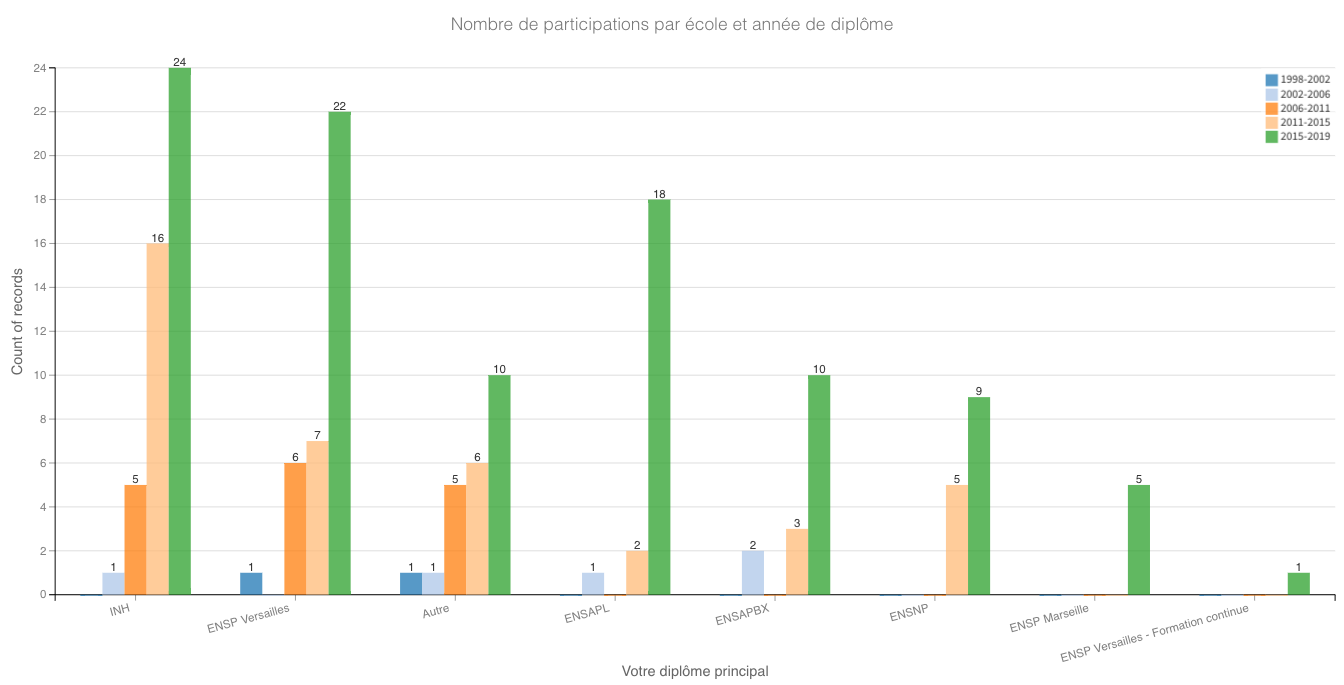
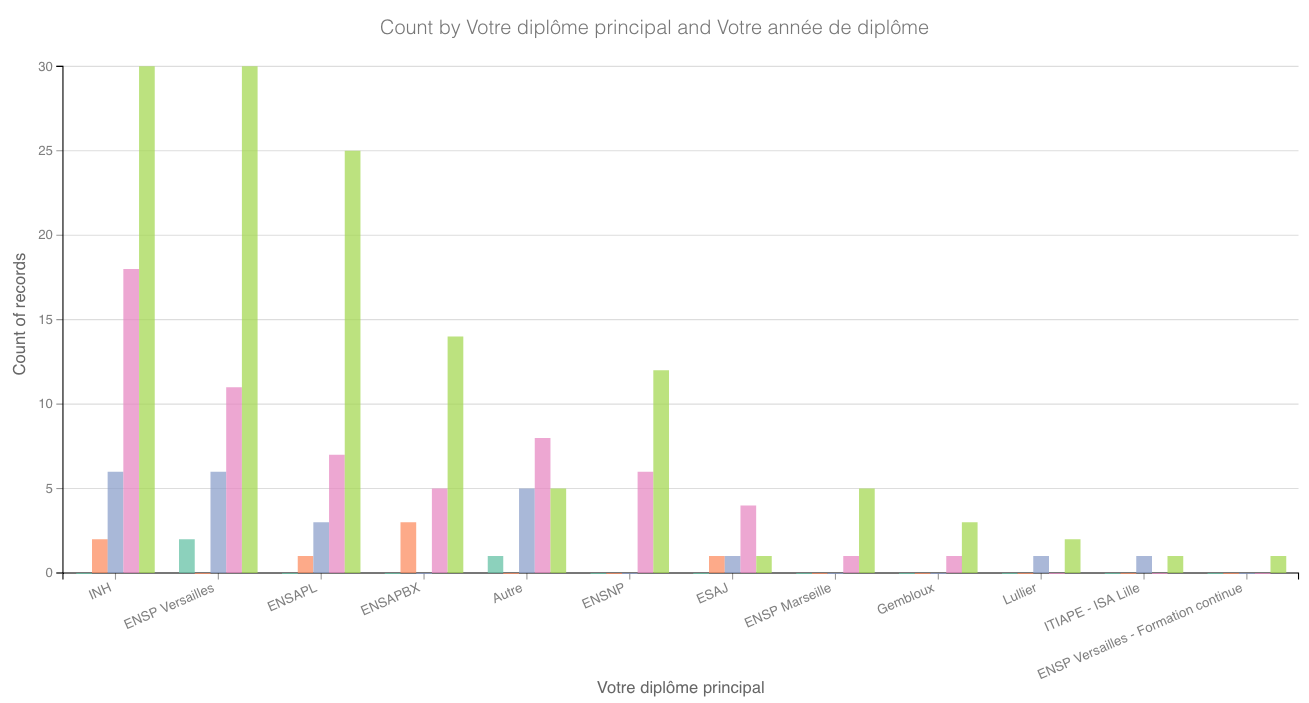
Update etude

diff --git a/index.md b/index.md
@@ -1,4 +1,4 @@
-**Depuis le 30 octobre 2018**, nous avons été **plus de 200** à répondre à l'appel. Pour gagner en pertinence, n'hésitez pas à partager votre expérience en répondant sur **[cette page](https://framaforms.org/etude-salaire-2018-paysagiste-concepteur-1538819660) d'ici le 31 mars 2019** (date de clôture de l'étude).
+**Depuis le 30 octobre 2018**, nous avons été **plus de 225** à répondre à l'appel. Pour gagner en pertinence, n'hésitez pas à partager votre expérience en répondant sur **[cette page](https://framaforms.org/etude-salaire-2018-paysagiste-concepteur-1538819660) d'ici le 31 mars 2019** (date de clôture de l'étude).
 
 # UNE ETUDE COLLABORATIVE
 Vous êtes **élève en 4ème ou en terminale** et cherchez à vous orientez dans le domaine du paysage sans trop savoir à quoi cela correspond ? Vous êtes **étudiant en école supérieure de Paysage** et vous aimeriez connaître ce qui vous attend à la sortie du cursus universitaire dans le monde entrepreunarial ? Vous êtes **en recherche d'emploi** et souhaitez connaître la moyenne de rémunération pour savoir à quoi prétendre ? Vous êtes **promu-e** et allez bientôt négocier une rémunération corrélée au nouveau poste ? 
@@ -27,7 +27,7 @@ Ce projet pourrait être porté par une structure (fédération, association), m
 
 # QUELQUES RÉSULTATS PRELIMINAIRES
 
-Mise à jour le 18/11/2018 sur la base de 180 réponses.
+Mise à jour le 24/11/2018 sur la base de 225 réponses.
 
 ## Quels sont les salaires moyens selon la séniorité ?
 Salaire moyen brut (fixe et variable) en fonction de l'expérience, hors freelances et indépendants.
@@ -41,13 +41,45 @@ Salaire moyen brut (fixe et variable) en fonction de la date de diplôme, hors f
 
 Salaire moyen brut (fixe et variable) en fonction de l'expérience et de la région, hors freelances et indépendants.
 
-| Expérience | Paris | Province |  |
-|:---:|:---:|:---:|:---:|
-|     0-2    |  29,1 k€ | 27,1 k€  |   **7%**  |
-|     2-4    |  30,6 k€ | 27,8 k€ | **10%** |
-|     4-6    | 34,1 k€ | 29,1 k€ | **17%** |
+![Quels sont les salaires moyens en fonction de la région?](avg_salary_exp_per_region.png)
 
 [L'Insee](https://www.insee.fr/fr/statistiques) table sur un écart de 20 à 25% entre la région parisienne et le reste du pays. Vivre à Paris intra-muros n’offre en revanche que peu de différences de salaires avec les Franciliens.
+
+# Quelle est la différence de salaires par type de poste et années d'expérience ?
+
+## Provice
+
+Sur la base de 134 réponses
+
+| Type de poste actuel / Nombre d'années d'expérience  |  0-1  |  1-2  |   2-3   |  3-4  |  4-5  |  5-6  |  6-7  |  7-8  |  8-9  |  9-10 |
+|------------------------------------------------------|:-----:|:-----:|:-------:|:-----:|:-----:|:-----:|:-----:|:-----:|:-----:|:-----:|
+| Directeur(trice) d'agence                            |       |       |         |       |       | 38850 |       |       | 60000 |       |
+| Assistant(e) d'étude                                 |       |       |  34350  |       | 28850 |       |       |       |       |       |
+| Chargé(e) d'étude confirmé                           |       |       |         |       |       |       |       |       |       | 31200 |
+| Chef(fe) de projet                                   |       | 24610 |  32278  | 34500 |       | 30693 | 25500 | 41000 |       |       |
+| Autre                                                | 24960 | 34000 |  24850  |       |       |       | 36000 |       |       | 40000 |
+| Chef(fe) de projet débutant                          |       | 25654 |  29640  | 35000 | 31550 | 31700 |       |       |       |       |
+| Chargé(e) d'étude                                    |       | 30920 |  28860  | 27332 | 28040 |       |       | 36800 |       |       |
+| Assistant(e) de projet                               |       | 27729 |  29912  | 31200 |       | 32600 |       |       |       |       |
+| Chargé(e) d'étude débutant                           | 27865 | 27880 |  30300  | 29000 |       |       |       |       |       |       |
+
+## Paris et île-de-France
+
+Sur la base de 57 réponses.
+
+| Type de poste actuel / Nombre d'années d'expérience  |  0-1  |  1-2  |  2-3  |  3-4  |  4-5  |  5-6  |  6-7  |  7-8  |  8-9  |  9-10 |
+|------------------------------------------------------|:-----:|:-----:|:-----:|:-----:|:-----:|:-----:|:-----:|:-----:|:-----:|:-----:|
+| Directeur(trice) d'agence                            |       |       | 50804 |       | 38500 |       |       | 40850 |       |       |
+| Chargé(e) d'étude confirmé                           |       |       |       | 27300 | 28790 |       |       |       | 38133 | 28200 |
+| Chef(fe) de projet confirmé                          |       |       |       |       |       |       |       | 21600 |       | 39450 |
+| Chef(fe) de projet                                   |       | 31000 | 25438 | 30000 | 31206 |       | 31800 | 28080 | 28810 | 36350 |
+| Chargé(e) d'étude                                    | 24050 | 29602 | 27433 | 26064 | 30140 | 28452 |       | 30941 | 38500 |       |
+| Chef(fe) de projet débutant                          | 31200 | 23051 | 25740 | 26673 |       |       |       |       |       |       |
+| Dessinateur(trice) projeteur                         |       | 21600 | 27084 |       |       |       |       |       |       |       |
+| Autre                                                |       | 25204 | 29900 | 18000 | 22625 | 19500 | 29000 |       | 27800 |       |
+| Chargé(e) d'étude débutant                           | 21003 | 24426 | 27951 |       |       |       |       |       |       |       |
+| Assistant(e) de projet                               | 22750 | 23460 | 25392 | 23371 | 29840 |       |       |       |       |       |
+| Directeur(trice) de société                          |       |       |       | 15000 | 21000 |       | 23400 |       |       |       |
 
 # Quelle est la répartition des réponses en fonction des écoles et des années de diplôme ?
 
